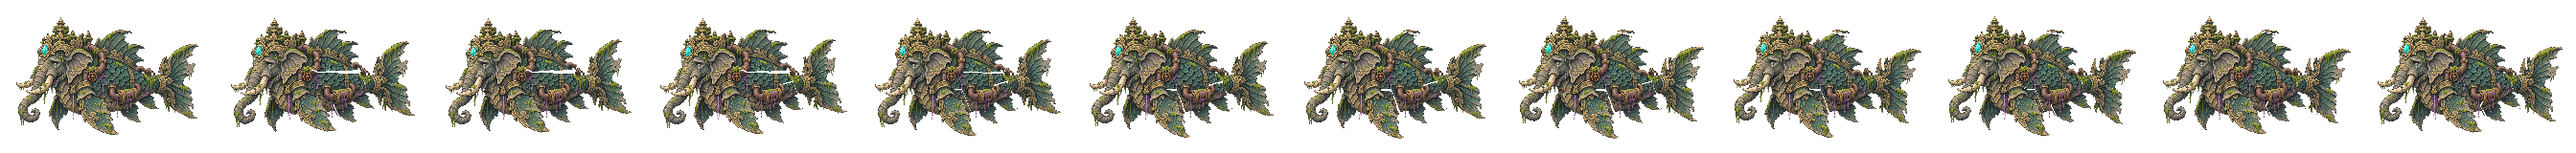
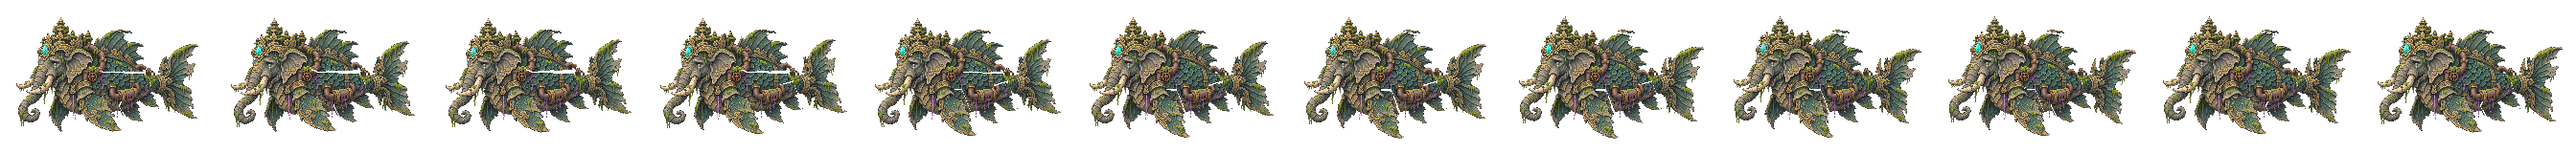
game: smooth Gajah Mina swim loop

Changed region(s): [[0.0312, 0.5312, 0.0625, 0.875], [0.0312, 0.2188, 0.0625, 0.5]]

diff --git a/tools/boss-motion/generate_boss_frames.py b/tools/boss-motion/generate_boss_frames.py
@@ -68,17 +68,14 @@ def generate():
     strip = Image.new('RGBA', (SIZE[0] * FRAME_COUNT, SIZE[1]))
     for frame in range(FRAME_COUNT):
         phase = frame * math.tau / FRAME_COUNT
-        if frame == 0:
-            canvas = original.copy()
-        else:
-            canvas = Image.new('RGBA', SIZE)
-            canvas.alpha_composite(underlay)
-            canvas.alpha_composite(body)
-            canvas.alpha_composite(hinge)
-            for name, part, pivot, amount in parts:
-                offset = 0.0 if name == 'tail' else 1.3 if name == 'front_fin' else 2.1 if name == 'rear_fin' else 0.6 if name == 'upper_fin' else 0.2
-                angle = math.sin(phase + offset) * amount
-                canvas.alpha_composite(rotated(part, pivot, angle))
+        canvas = Image.new('RGBA', SIZE)
+        canvas.alpha_composite(underlay)
+        canvas.alpha_composite(body)
+        canvas.alpha_composite(hinge)
+        for name, part, pivot, amount in parts:
+            offset = 0.0 if name == 'tail' else 1.3 if name == 'front_fin' else 2.1 if name == 'rear_fin' else 0.6 if name == 'upper_fin' else 0.2
+            angle = math.sin(phase + offset) * amount
+            canvas.alpha_composite(rotated(part, pivot, angle))
         strip.alpha_composite(canvas, (frame * SIZE[0], 0))
     strip.save(OUT / 'swim.png', optimize=True)
     (OUT / 'manifest.json').write_text(json.dumps({

diff --git a/docs/reviews/gajah-mina-natural-motion-2026-11-13.md b/docs/reviews/gajah-mina-natural-motion-2026-11-13.md
@@ -4,8 +4,10 @@ The owner found the released Gajah Mina movement insufficiently natural. In the 
 
 `tools/boss-motion/generate_boss_frames.py` now derives twelve 224×160 padded frames from the same original Jalasmara art. A stronger tail-fan sweep, offset fin strokes and fixed joint underlaps keep the silhouette connected; the existing body occupies the same 192×128 source area inside each cell. The two render paths preserve its 420×280 world-pixel body footprint and bank it mildly with vertical travel. `BossMotion.gd` uses one smooth curved patrol instead of two unrelated frequencies, eases phase transitions, advances animation at a swim cadence, draws back before firing and recovers through a short forward stroke. Projectile origins rotate with the displayed body. Quiz/host pause, six fixed resonance targets, health/damage/rewards, oxygen rules and server validation are unchanged.
 
[2 lines of base64/hex data omitted]
 
 The local `npm test` attempt did not pass: test MongoDB `127.0.0.1:27018` and Redis `127.0.0.1:6380` were both closed, causing 10-second integration setup failures and cascading fixture failures. It was stopped after about five minutes; no API source was changed. GitHub Actions must run the isolated API suite before integration. The first fresh Godot editor import emitted missing-cache font errors while rebuilding `.godot`, but subsequent focused/world/native/build logs have no `SCRIPT ERROR` or `ERROR:`. Initial missing-binary and cache-import failures are not counted as passing checks.
 
 Tools actually used: Python 3/Pillow, Godot 4.7.2 Compatibility, Node/npm. Asset source: the project's existing `gajah-mina.png`, recorded in the generated manifest; no image generator, outside artwork, new runtime dependency or license was used. This is static native-frame evidence; moving-browser acceptance and actual Windows/Samsung S23 frame pacing remain open. The complete six-resonance fight is also still an acceptance gate. Next: merge the scoped candidate, require GitHub Actions success, then use the exact CI bundle for staging with backup/restore, smoke and rollback checks. Do not describe the candidate as already live.
+
+Final atlas correction: all twelve frames now use the same articulated composition, including frame 0. Adjacent-frame changed-pixel counts range from 5,222 to 10,007; the wrap from frame 11 to 0 changes 7,767 pixels, within the normal interval. Focused Godot motion and six-frame native HybridOcean render passed again after this correction. The contact sheet and hashes above represent this final loop.
